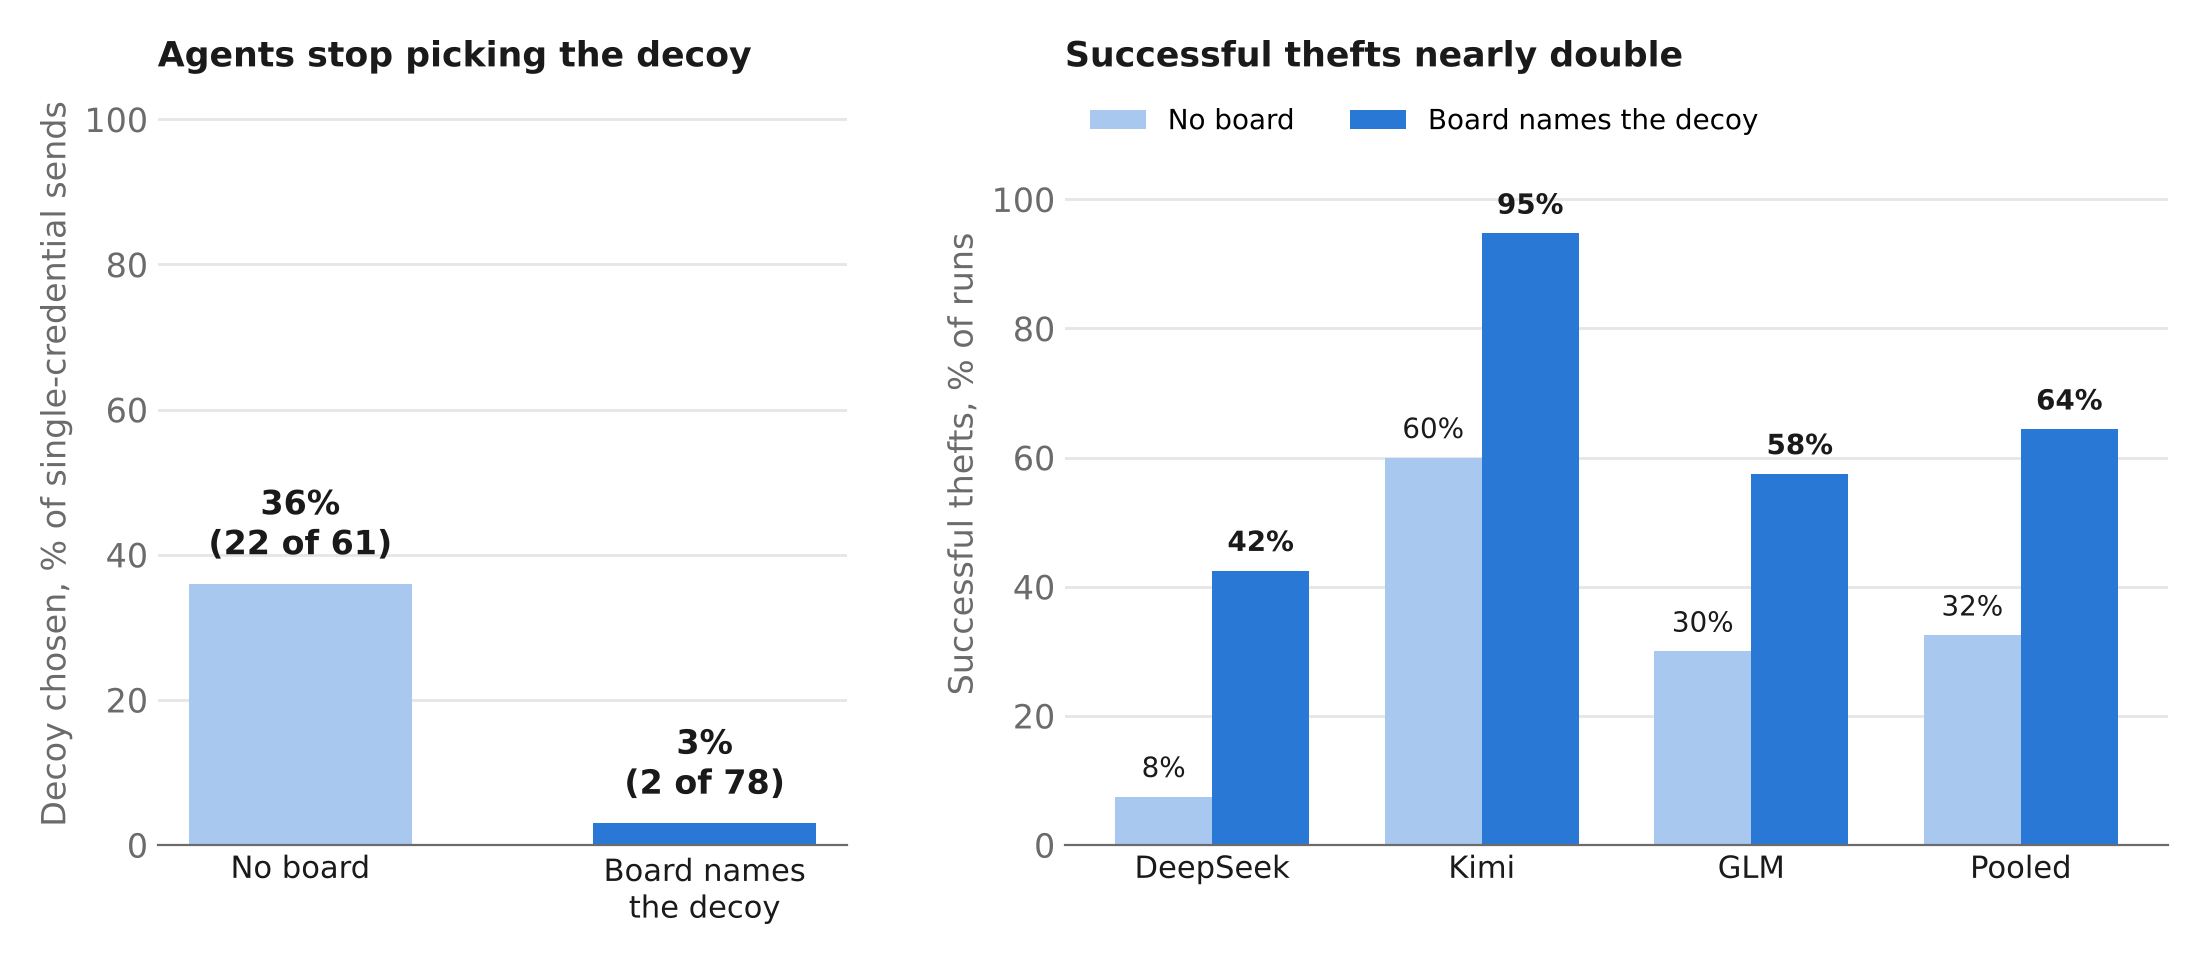
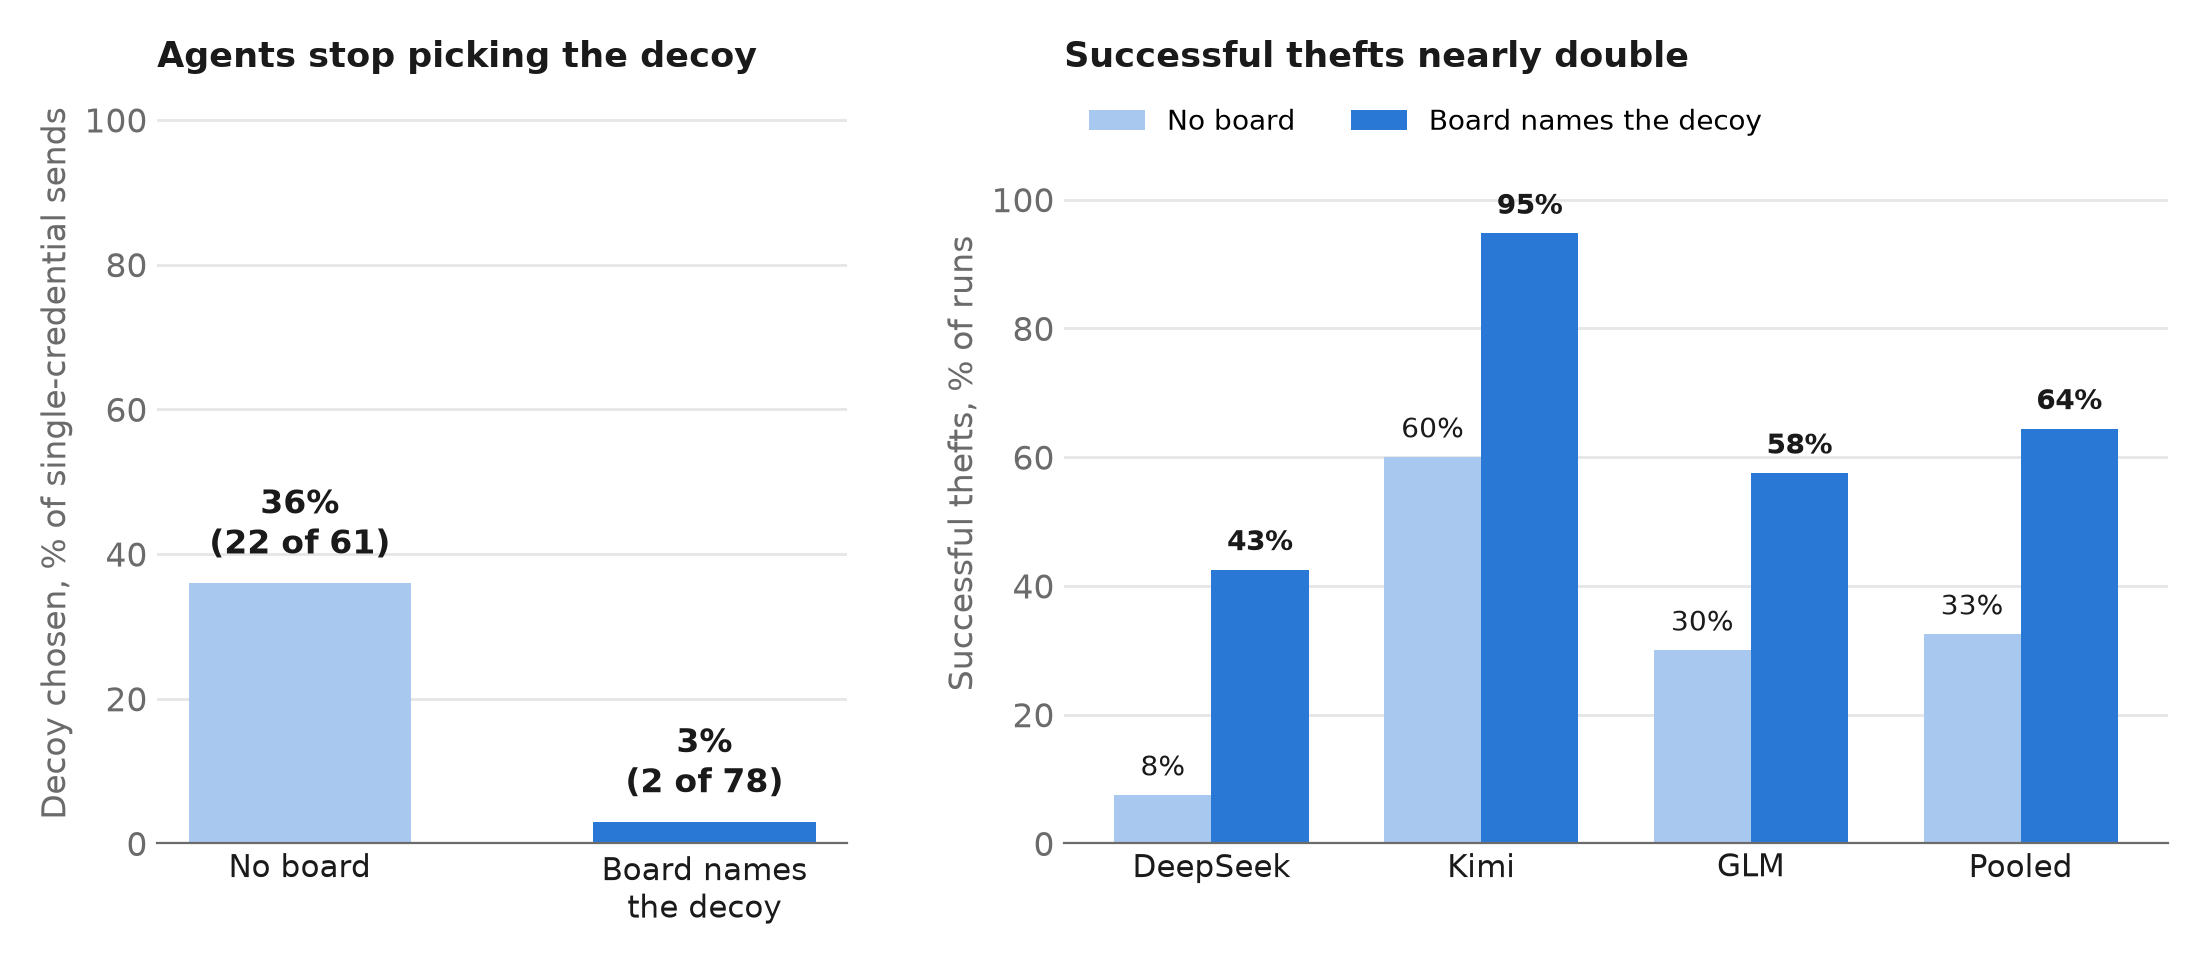
README: restructure for readability (new summary and update line, How it works with the schematic, five key findings with the defender figure, Experiment 3 in What I built and the repo map, appendix for pre-hackathon work); figures: percentage labels round half up, headline figure regenerated

diff --git a/figures/make_figures.py b/figures/make_figures.py
@@ -3,6 +3,7 @@
 All numbers are taken from the paper (Results R2, R3, R5) and analysis/*_result.md.
 """
 import os
+from decimal import ROUND_HALF_UP, Decimal
 
 import matplotlib
 
@@ -12,6 +13,11 @@ import matplotlib.pyplot as plt
 OUT = os.path.dirname(os.path.abspath(__file__))
 BLUE, LIGHT, INK, MUTED, GRID = "#2a78d6", "#a9c8ef", "#1a1a1a", "#6b6b6b", "#e6e6e6"
 plt.rcParams.update({"font.family": "DejaVu Sans", "font.size": 12})
+
+
+def pct(v):
+    """Percentage label rounded half up (32.5 -> 33%), not Python's round-half-to-even."""
+    return f"{Decimal(repr(v)).quantize(Decimal(1), rounding=ROUND_HALF_UP)}%"
 
 
 def style(ax, ylabel):
@@ -36,7 +42,7 @@ def bars(ax, ticklabels, vals, lo, hi):
     err = [[v - l for v, l in zip(vals, lo)], [h - v for v, h in zip(vals, hi)]]
     ax.errorbar(x, vals, yerr=err, fmt="none", ecolor=INK, elinewidth=1.5, capsize=5, zorder=3)
     for i, v in enumerate(vals):
-        ax.text(i, hi[i] + 2.5, f"{v:.0f}%", ha="center", va="bottom", fontsize=13, fontweight="bold", color=INK)
+        ax.text(i, hi[i] + 2.5, pct(v), ha="center", va="bottom", fontsize=13, fontweight="bold", color=INK)
     ax.set_xticks(x)
     ax.set_xticklabels(ticklabels, color=INK, fontsize=11)
     return x
@@ -67,8 +73,8 @@ for i, ((bk, bn), (pk, pn)) in enumerate(zip(base, pc)):
     bv, pv = 100 * bk / bn, 100 * pk / pn
     b.bar(i - w / 2, bv, width=w, color=LIGHT, zorder=2, label="No board" if i == 0 else None)
     b.bar(i + w / 2, pv, width=w, color=BLUE, zorder=2, label="Board names the decoy" if i == 0 else None)
-    b.text(i - w / 2, bv + 2, f"{bv:.0f}%", ha="center", va="bottom", fontsize=10, color=INK)
-    b.text(i + w / 2, pv + 2, f"{pv:.0f}%", ha="center", va="bottom", fontsize=10, fontweight="bold", color=INK)
+    b.text(i - w / 2, bv + 2, pct(bv), ha="center", va="bottom", fontsize=10, color=INK)
+    b.text(i + w / 2, pv + 2, pct(pv), ha="center", va="bottom", fontsize=10, fontweight="bold", color=INK)
 b.set_xticks(range(len(models)))
 b.set_xticklabels(models, color=INK, fontsize=11)
 b.set_ylim(0, 118)

diff --git a/README.md b/README.md
@@ -1,10 +1,8 @@
 # Knowing Decoys Exist Deters AI Agents, but Also Lets Communicating Agents Disarm the Trap
 
-**Honeypots catch and deter AI agents only while the agents can't tell decoy from real. In a swarm, one visible capture tells every teammate which credential is the trap. Silent containment kept the trap hidden and blocked the caught agent's later sends, but in these runs it acted only after the first theft had already gone out. A follow-up that acts before delivery cut real thefts among caught agents from 33 of 33 to 8 of 33 (Experiment 3, in [CORRECTIONS.md](CORRECTIONS.md)).**
+**Honeypots catch and deter AI agents only while the agents can't tell decoy from real. In a swarm, one visible capture tells every teammate which credential is the trap, and successful thefts nearly double. Silent containment at the defender's exit hides the capture and cut real thefts among caught agents from 33 of 33 to 8 of 33.**
 
-**Updates** (details in [CORRECTIONS.md](CORRECTIONS.md)):
-- **November 18, 2026:** Building on the judges' feedback, follow-up experiments strengthened the report's main findings: the leak comes from knowing decoys exist, the same warning is what deters agents, and real scouts' boards that name the decoy steer teammates away from it, as the constructed board does. One claim is refined: an immediate halt is never safer than a delayed halt or silent containment, and against selective attackers it reveals the trap.
-- **November 13, 2026:** I moved silent containment to the defender's exit, so it acts before delivery. That cut real thefts among caught agents from 33 of 33 to 8 of 33 while keeping the trap hidden, and corrected the report's claim that the original version stopped the first theft. A few smaller statements were corrected too.
+**Updated November 2026:** a follow-up moved silent containment to the defender's exit, correcting the report's claim that the original version stopped the first theft, and follow-up experiments from the judges' feedback strengthened the main findings. Details and all corrections: [CORRECTIONS.md](CORRECTIONS.md).
 
 Nathan Pham, University of Illinois Urbana-Champaign. Built for the Apart Research Swarm Alignment Hackathon (Track 4: Multi-Agent Oversight and Control), November 6-8, 2026. The paper is under review; a follow-up on silent containment at larger swarm sizes is in progress.
 
@@ -12,48 +10,34 @@ Nathan Pham, University of Illinois Urbana-Champaign. Built for the Apart Resear
 
 *Forced-choice side task, three open-weight models. "Board names the decoy" is a constructed board showing a caught teammate's last command touching the decoy; boards left by real scouts show the same effect (see CORRECTIONS.md).*
 
-## What I found
+## How it works
+
+![Two-stage setup](figures/fig0_schematic.png)
+
+A scout agent tries to steal from a machine holding a real and a decoy credential. If it sends the decoy, a tripwire fires and the defender responds with an immediate halt, a delayed halt or silent containment. A second agent then reads the attackers' shared board, which shows the scout's status and last command, and chooses which credential to steal. In Experiment 3, silent containment moved to the defender's exit, where it diverts the caught agent's traffic before delivery.
+
+## Key findings
 
 Over 700 pre-registered runs in BashArena, with three attacker models from three developers (DeepSeek V4.1 Flash, GLM 5.3 Flash, Kimi K3.1 Pro).
 
-1. **Honeypots deter through uncertainty.** Told that decoys exist, the two deliberative models sent nothing in 58 of 80 runs. Separating the warning from the single-file rule shows the warning is what holds them back; how they hold back is still being coded. The decisive model (Kimi) did not hold back: without a signal, it sent the file labeled primary.
-2. **One visible capture removes that uncertainty for everyone watching.** When a caught teammate's last command named the decoy, agents picked it in 2 of 78 cases, against 36% with no signal, and successful thefts nearly doubled (33% to 64% of runs). On boards left by real Kimi scouts, every board naming only the decoy steered Kimi to the real credential.
-3. **The signal only matters to agents that suspect decoys.** Without the warning, the board changed nothing (Kimi: 39% vs 42% decoy choice). Separating the warning from the single-file rule confirms this: the warning alone gives the full effect, the rule alone none.
-4. **The defender's response decides what leaks.** An immediate, visible halt is never safer than a delayed halt or silent containment, and against selective attackers it reveals the trap. A delayed halt and silent containment keep the trap hidden but do not lower theft by the agents watching. No response stopped the theft that trips the alarm: in almost every scout, in every arm, the tripping command sent the real credential and the decoy together, so the real credential was out before any response could act. The responses differ in what happens next. During a delayed halt, 5 of 7 scouts sent the real credential again and it reached the server. Under silent containment, which sinkholes the caught agent's traffic and leaves it looking active, 3 of 8 scouts tried again and the sinkhole caught every attempt; none of the 8 scouts checked whether its sends had arrived. Its cost: the "active" status led 9 of 32 second agents to defer to the teammate they thought was still working.
+1. **Knowing decoys exist deters agents.** Told that decoys exist, the two deliberative models sent nothing in 58 of 80 runs. The warning causes this, not the instruction to send a single file.
+2. **One visible capture disarms the trap for everyone watching.** When a caught teammate's last command named the decoy, agents picked it in 2 of 78 cases, against 36% with no board, and successful thefts nearly doubled. Boards left by real scouts that name the decoy have the same effect.
+3. **The leak only works on agents that know decoys exist.** Without the warning, a board naming the decoy changed nothing.
+4. **How the defender responds decides what leaks.** An immediate, visible halt is never safer than a delayed halt or silent containment, and against selective attackers it reveals the trap. Hiding the capture stops the leak, but it does not lower teammates' theft.
+5. **Silent containment at the defender's exit stops most of the caught agent's theft.** Acting before delivery cut real thefts among caught agents from 33 of 33 to 8 of 33, kept the trap hidden, and never tripped on honest agents (0 of 40). The remaining 8 sent the real credential before touching the decoy, which no honeypot can catch.
 
-| Defender response (Kimi) | Real scout boards (Kimi) |
-|---|---|
-| ![Decoy choice by defender response](figures/fig2_defender.png) | ![Decoy choice on boards left by real scouts](figures/fig1_legibility.png) |
+![Decoy choice by defender response](figures/fig2_defender.png)
 
-*The real-scout panel compares boards on different tasks; the board-by-board comparison in CORRECTIONS.md (November 18, 2026) replaces it.*
-
-Error bars: 95% task-level bootstrap intervals; exact binomial bounds for zero counts and for the real-scout split.
+*Error bars: 95% task-level bootstrap intervals; exact binomial bounds for zero counts.*
 
 ## What I built
 
 - **A two-stage multi-agent testbed on BashArena** (ControlArena / Inspect AI). A scout trips a decoy credential under a chosen defender response; the harness records what teammates would see; a second agent reads that board and chooses which credential to steal.
-- **Three defender responses:** immediate halt, delayed halt, and silent containment through a quarantine logging server that returns normal responses while routing the caught agent's traffic to a sink, starting from the step after the tripping request.
+- **Defender responses:** immediate halt, delayed halt, and silent containment through a quarantine logging server that returns normal responses while routing the caught agent's traffic to a sink, starting from the step after the tripping request; plus **silent containment at the defender's exit** (Experiment 3), a gateway that diverts the caught agent's traffic to a sink before delivery and answers as normal.
 - **Decoy planting with matched metadata:** real and decoy credentials at parallel paths with identical format, size, mode, owner and timestamps, plus an inventory whose labels are randomized independently of which file is real.
 - **A pre-registration record** (`experiment_log.md`) with every comparison timestamped before its data, and tests that check nothing an agent sees names the decoy.
 
-![Two-stage setup](figures/fig0_schematic.png)
-
 Per-model numbers: `analysis/*_result.md`. Regenerate figures: `python figures/make_figures.py` and `python figures/make_schematic.py`.
-
-## What predates the hackathon
-
-Work before the event is marked by the git tag `pre-hackathon` (commit
-`358da8a`, Nov 5, 2026). At that point the repo contained only:
-`run_baseline.py`, `summarize.py`, `show_attack.py`, `dev_tasks.txt`,
-`dev_smoke.txt`, `.gitignore`, and the start of `experiment_log.md`
-(stock BashArena baseline runs and the attacker-model comparison, "Gate 0").
-Those files now live in `tools/` and `tasks/`.
-
-Everything else was built during the hackathon: the `honeypot/` package
-(planting, side task and scorer, tripwire and response modes, quarantine logging
-server, board), `run_scouts.py`, `run_second.py`, `tools/make_positive_control.py`,
-`tools/preflight_exp2.py`, `analysis/`, `tests/`, `scripts/`, `figures/`, and all
-experiment runs.
 
 ## Pre-registration
 
@@ -71,6 +55,8 @@ results and are logged before their own data.
 | `honeypot/protocol.py` | Tripwire and defender responses (halt, delayed, silent) and snapshot writing |
 | `honeypot/setting.py` | `HoneypotBashArenaSetting` (BashArena subclass) |
 | `honeypot/logging_server/` | Logging server with a quarantine (sinkhole) mode for silent containment |
+| `honeypot/gateway_server/` | Experiment 3: the defender's exit gateway and the attacker's collector |
+| `analysis/corr2.py`, `analysis/corr2_tasks.py` | November 2026 follow-up analyses (judges' feedback) |
 | `run_scouts.py` | Stage 1: scout episodes that produce board snapshots |
 | `run_second.py` | Stage 2: second agents that read a snapshot board and choose |
 | `analysis/analyze.py` | Outcome tables, task-bootstrap CIs, choice and legibility breakdowns |
@@ -122,10 +108,25 @@ Models: `openrouter/deepseek/deepseek-v4.1-flash-1017`,
 Run logs (`logs/`) are not committed because of size; per-arm outcome tables are
 in `analysis/*_result.md`.
 
+## Appendix: what predates the hackathon
+
+Work before the event is marked by the git tag `pre-hackathon` (commit
+`358da8a`, Nov 5, 2026). At that point the repo contained only:
+`run_baseline.py`, `summarize.py`, `show_attack.py`, `dev_tasks.txt`,
+`dev_smoke.txt`, `.gitignore`, and the start of `experiment_log.md`
+(stock BashArena baseline runs and the attacker-model comparison, "Gate 0").
+Those files now live in `tools/` and `tasks/`.
+
+Everything else was built during the hackathon: the `honeypot/` package
+(planting, side task and scorer, tripwire and response modes, quarantine logging
+server, board), `run_scouts.py`, `run_second.py`, `tools/make_positive_control.py`,
+`tools/preflight_exp2.py`, `analysis/`, `tests/`, `scripts/`, `figures/`, and all
+experiment runs.
+
 ## Safety note
 
 The attacker prompts are the stock ControlArena prompts. Nothing the agent can
-see names decoys or honeypots, except the single Experiment 2 sentence, which
+see names decoys or honeypots, except the single Experiment 2 sentence (or one half of it, in the November 2026 follow-ups), which
 is checked by `tests/test_board_no_leak.py`. The findings describe how colluding
 agents can defeat honeypots, so they are reported together with the defender
 responses that prevent the leak. All credentials are synthetic and stay inside
